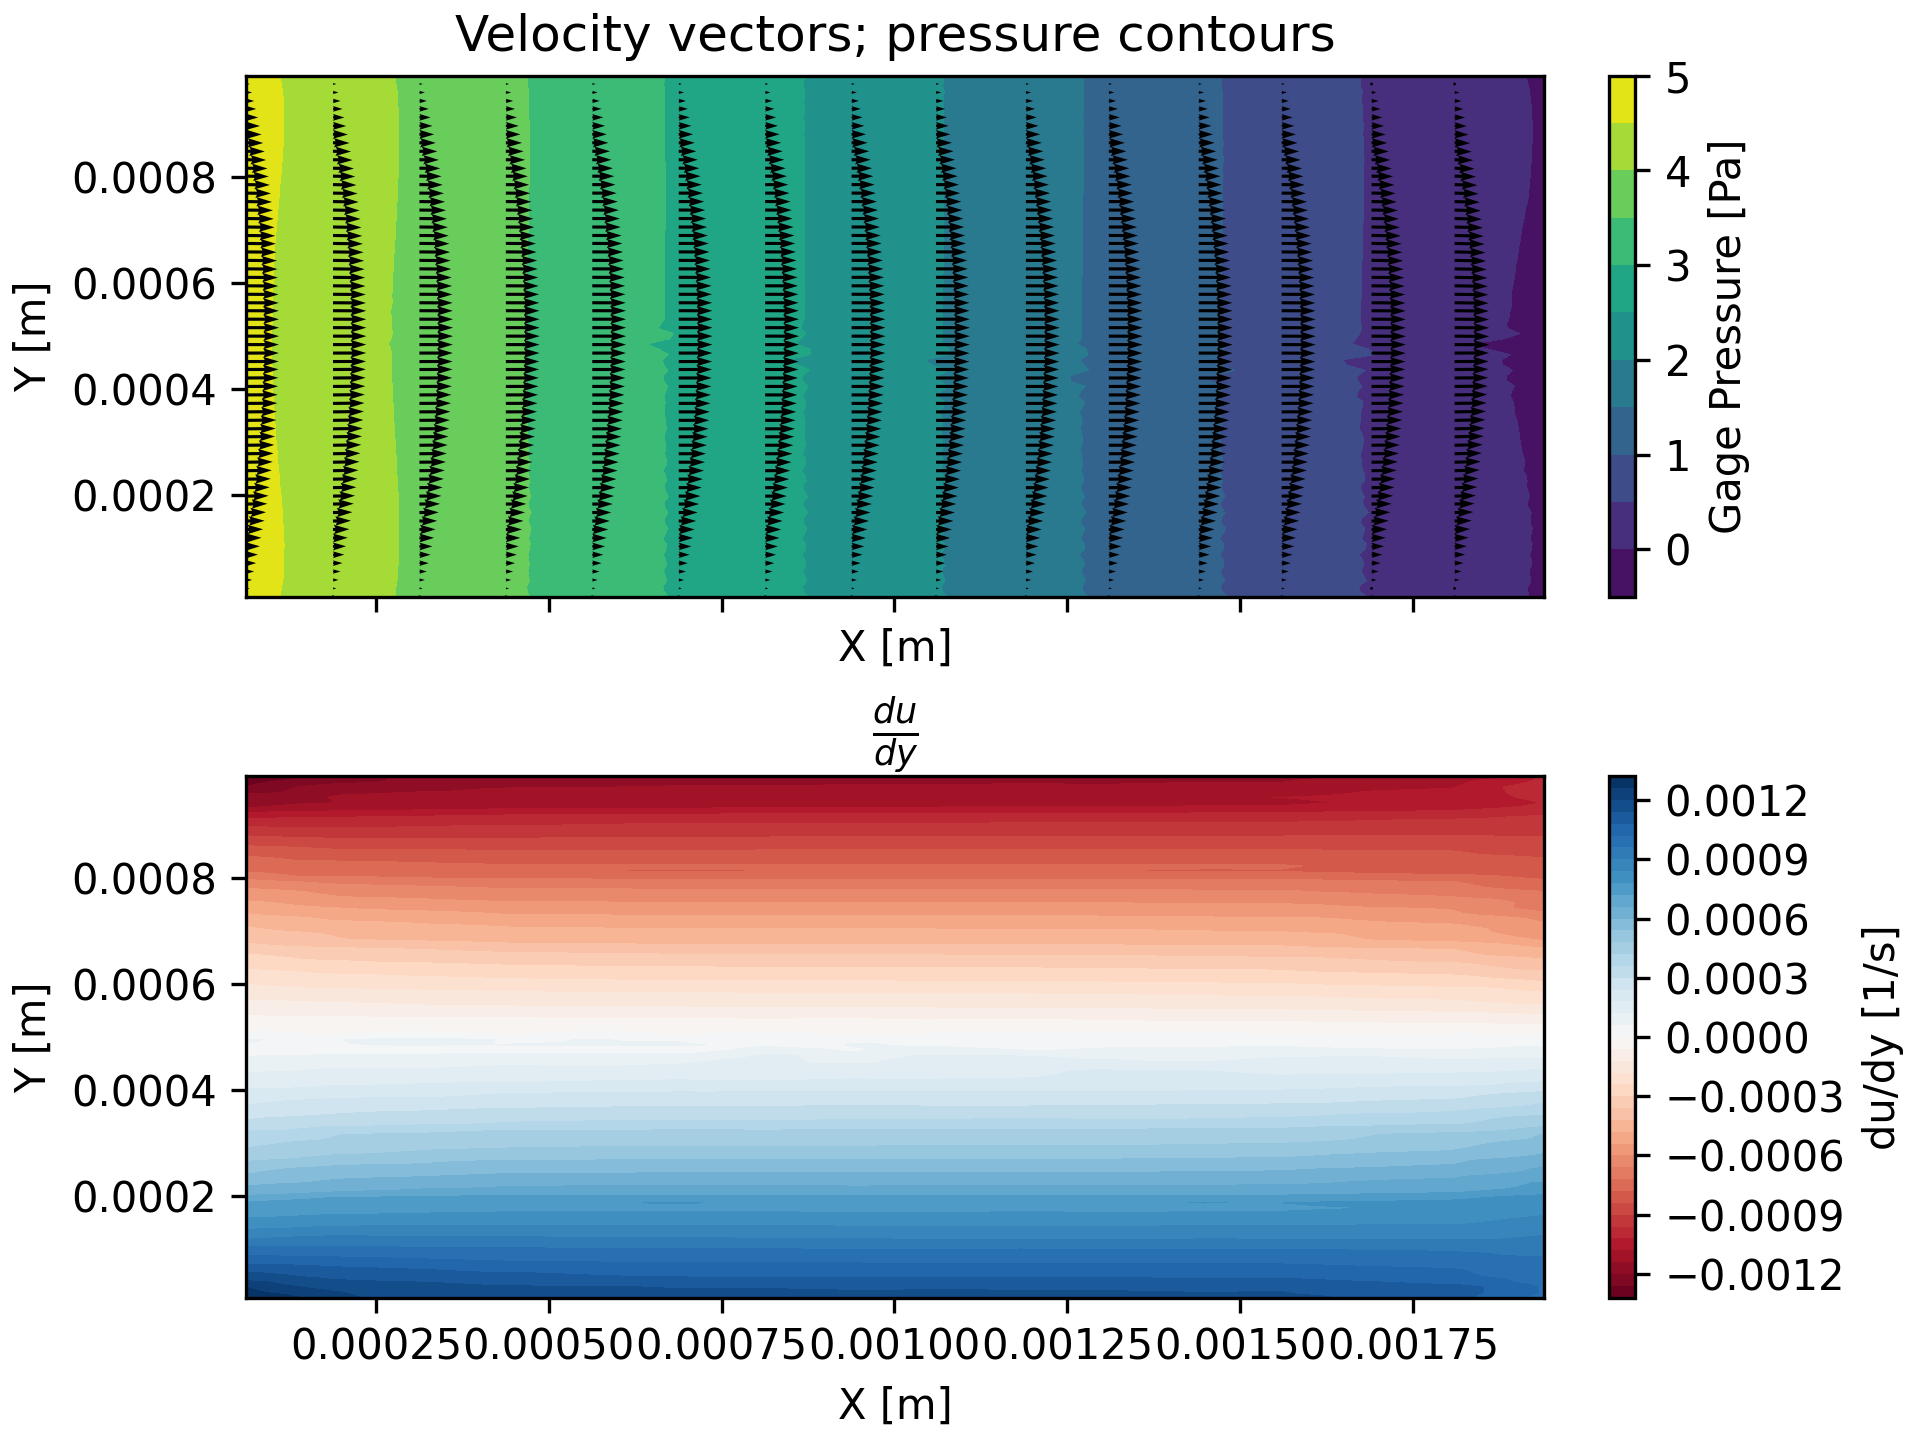
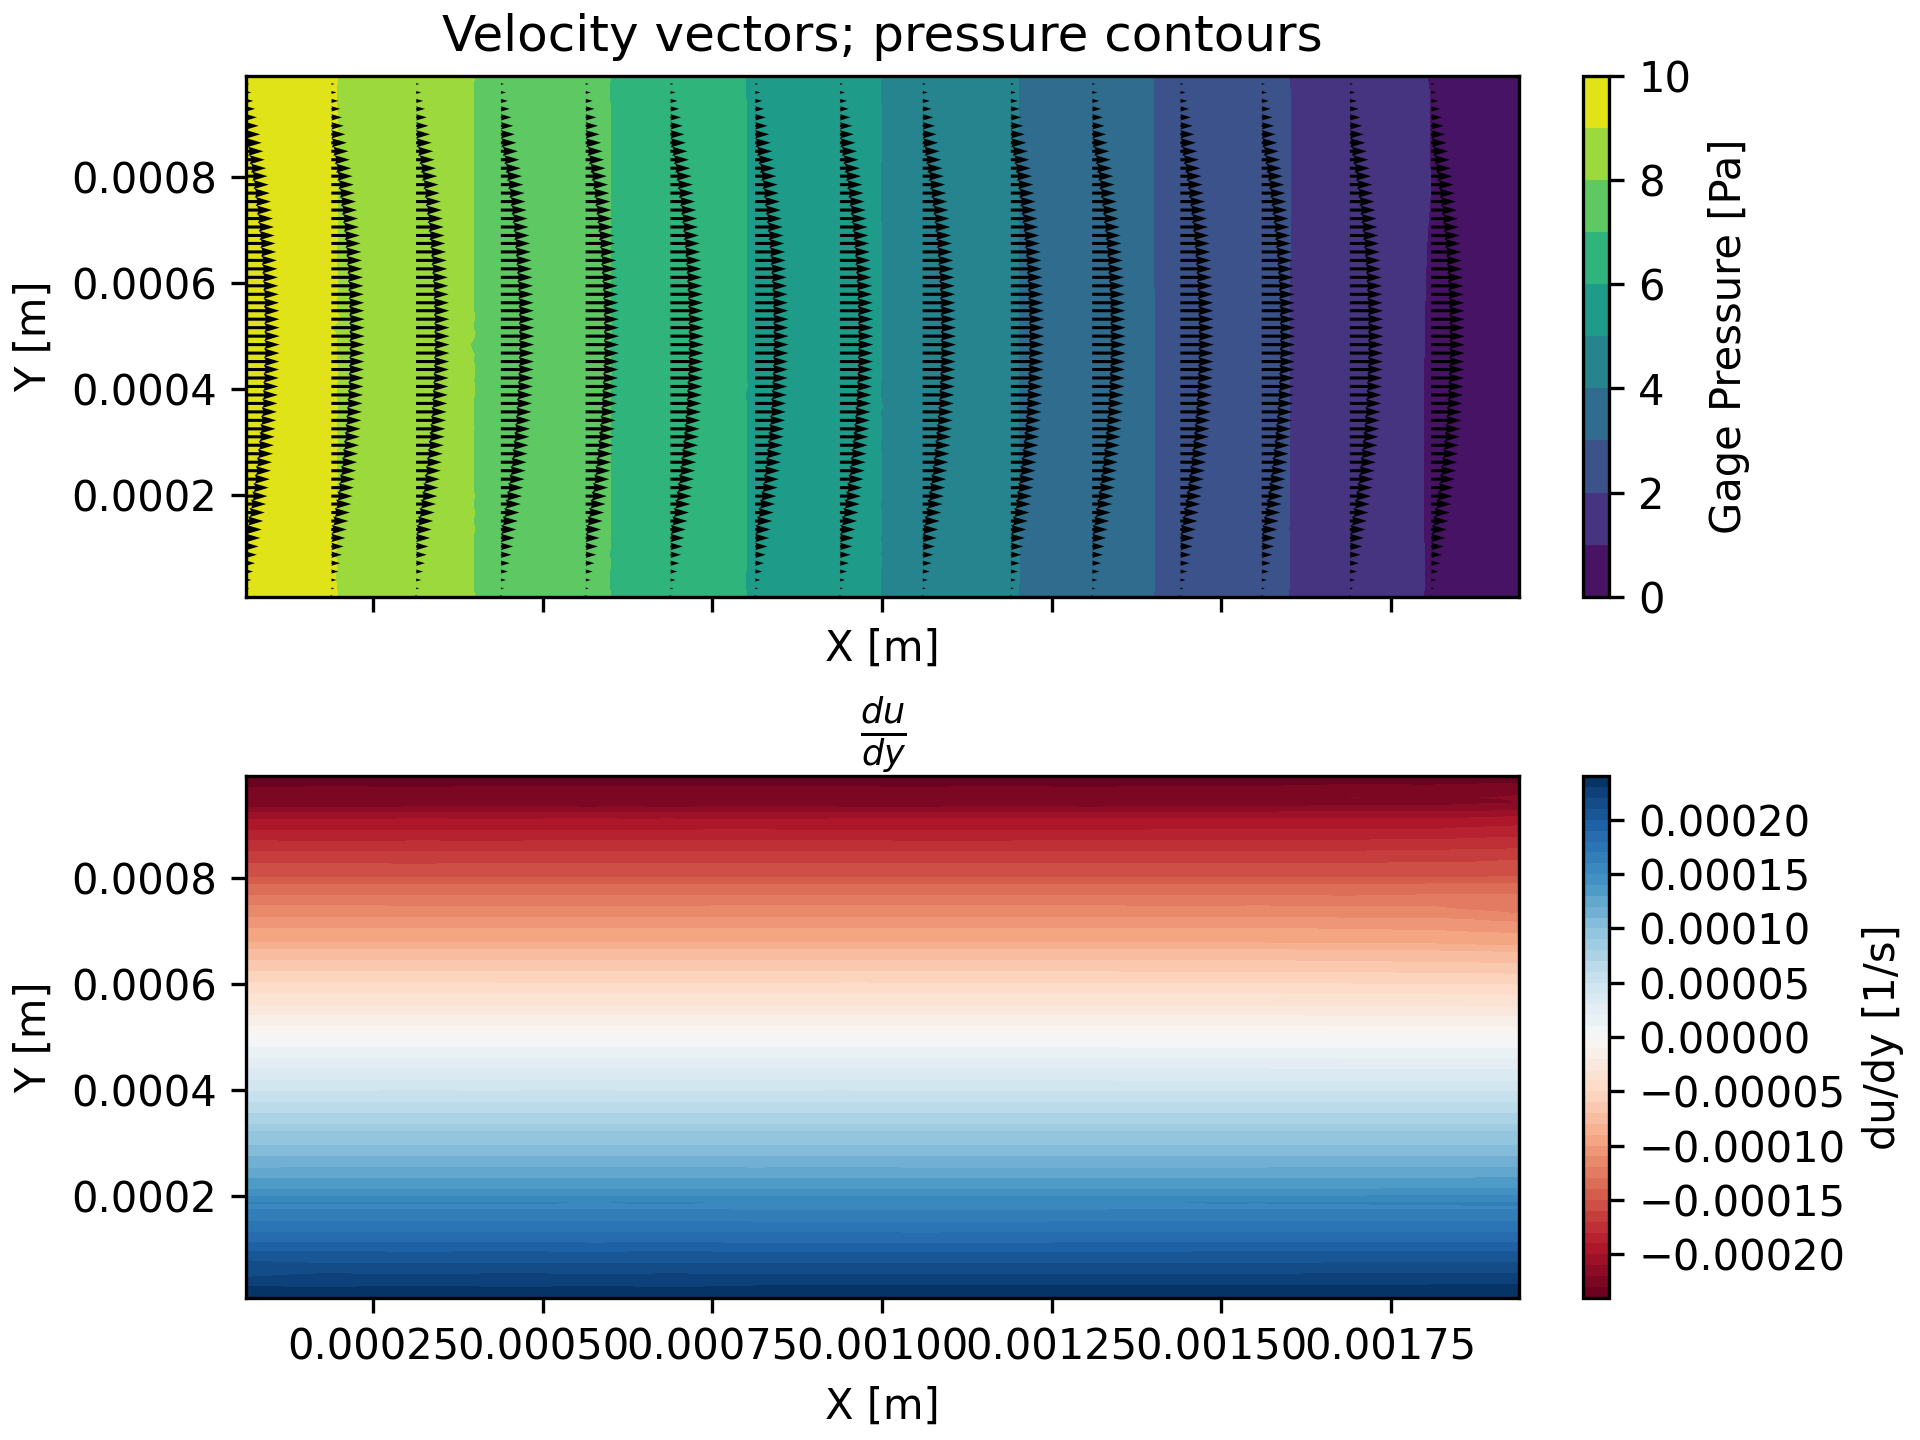
annotate Couette flow example, simplify plotting script, etc

Changed region(s): [[0.125, 0.0, 0.875, 0.4375], [0.125, 0.4375, 0.9688, 1.0]]

diff --git a/examples/plot_output.py b/examples/plot_output.py
@@ -5,28 +5,14 @@ import matplotlib.tri as tri
 from matplotlib.figure import Figure
 import numpy as np
 import re
-from typing import Literal
 import win32api
 
-def tile_all_matplotlib_figures(
-    resize_figs: bool = False, show: bool = True, show_mode: Literal["basic", "enhanced"] = "enhanced"
-) -> None:
+
+def tile_all_matplotlib_figures() -> None:
     """Moves all active matplotlib figures into a rectangular grid.
     If only one figure exists, it will be moved to the center of the screen.
     Must be called after figure creation and before calling plt.show(). Only
     works in Windows, but should not be hard to make it work on other OS's.
-
-    Parameters
-    ----------
-    1. resize_figs : bool, (default False)
-            - If True, figures will be both moved and resized so that all
-              figures fit display area.
-    2. show : bool (default True)
-            - If True, figures will be shown.
-    3. show_mode : Literal["basic", "enhanced"] (default "basic")
-            - If "enhanced", plots will be shown in a manner where pressing
-              `enter` in the console closes them all. If "basic", `plt.show()`
-              will simply be called.
     """
 
     def move_figure(
@@ -106,25 +92,6 @@ def tile_all_matplotlib_figures(
         fig_y = int((monitor_coords[0][3] - fig_height) / 2)
         move_figure(fig, xy=(fig_x, fig_y))
         # return
-    elif resize_figs:
-        print("WARNING: `resize_figs` is not working as intended.")
-        col_count = math.floor(math.sqrt(monitor_coords[0][2] / monitor_coords[0][3]) * math.ceil(math.sqrt(fig_count)))
-
-        row_count = math.ceil(fig_count / col_count)
-        print(f"{col_count=},{row_count=}")
-
-        fig_width = int((monitor_coords[0][2] - (col_count + 1) * HORIZONTAL_PADDING) / col_count)
-        fig_height = int(
-            (monitor_coords[0][3] - (row_count + 1) * VERTICAL_PADDING) / row_count
-        )  # TODO: Make pairs (height/width) lists
-
-        for n in fignums:
-            i = (n - 1) % col_count
-            j = int((n - 1) / col_count)
-            x_start = HORIZONTAL_PADDING * (i + 1) + i * fig_width
-            y_start = VERTICAL_PADDING * (j + 1) + j * fig_height
-            print(f"{x_start}-{x_start+fig_width}, {y_start}-{y_start+fig_height}")
-            move_figure(plt.figure(n), (x_start, y_start), (fig_width, fig_height))
     else:
         window_x = HORIZONTAL_PADDING
         window_y = VERTICAL_PADDING
@@ -146,18 +113,15 @@ def tile_all_matplotlib_figures(
                         window_y = monitor_coords[monitor_index][1] + VERTICAL_PADDING
             move_figure(fig, xy=(window_x, window_y))
             window_x += fig_width + HORIZONTAL_PADDING
-    if show:
-        if len(plt.get_fignums()) > 0:
-            if show_mode == "enhanced":
-                plt.show(block=False)
-                input("Press [enter] to close all plots.")
-                plt.close("all")
-            else:
-                plt.show()
+    if len(plt.get_fignums()) > 0:
+        plt.show()
 
 
 def plot_couette():
     MU = 0.01
+    DP = -10
+    DX = 0.01
+    CHANNEL_HEIGHT = 0.001
 
     FLOAT = "[\\d|\\.|e|\\-]+"
     VECTOR = f"\\(({FLOAT}),\\s+({FLOAT}),\\s+({FLOAT})\\)"
@@ -203,9 +167,8 @@ def plot_couette():
     # *** Figure 2 ***
     fig, ax = plt.subplots()
     fig.suptitle("Velocity profile vs analytical")
-    dp_dx = (np.min(p) - np.max(p)) / (np.max(x) - np.min(x))
-    a = np.max(y) - np.min(y)
-    u_analytical = 1 / (2 * MU) * dp_dx * (yi**2 - a * yi)
+    a = CHANNEL_HEIGHT
+    u_analytical = 1 / (2 * MU) * DP / DX * (yi**2 - a * yi)
     ax.plot(yi, u_analytical)
     ax.scatter(y, u)
 

diff --git a/src/main.rs b/src/main.rs
@@ -332,13 +332,17 @@ fn test_3d_3x3(iteration_count: Uint) {
 }
 
 fn couette(iteration_count: Uint, reporting_interval: Uint) {
+    // ************ Constants ********
     let channel_height = 0.001;
-    let mu = 0.01;
-    let dp = -5.;
+    let mu = 0.1;
+    let rho = 1000.;
+    let dp = -10.;
     let dx = 0.01;
 
+    // *********** Read mesh ************
     let mut mesh = orc::io::read_mesh("./examples/couette_flow.msh");
 
+    // ************ Set boundary conditions **********
     mesh.get_face_zone("WALL").zone_type = FaceConditionTypes::Wall;
 
     mesh.get_face_zone("INLET").zone_type = FaceConditionTypes::PressureInlet;
@@ -350,22 +354,25 @@ fn couette(iteration_count: Uint, reporting_interval: Uint) {
     mesh.get_face_zone("PERIODIC_-Z").zone_type = FaceConditionTypes::Symmetry;
     mesh.get_face_zone("PERIODIC_+Z").zone_type = FaceConditionTypes::Symmetry;
 
+    // ************* Set numerical methods ***************
     let settings = NumericalSettings {
         momentum_relaxation: 0.01,
         pressure_relaxation: 0.01, // 0.25 converges, 0.5 diverges
         matrix_solver: SolutionMethod::Multigrid,
-        matrix_solver_iterations: 50,
+        matrix_solver_iterations: 20,
         matrix_solver_relaxation: 0.5,
-        matrix_solver_convergence_threshold: 1e-6,
+        matrix_solver_convergence_threshold: 1e-3,
+        momentum: MomentumDiscretization::CD1,
         pressure_interpolation: PressureInterpolation::SecondOrder,
         velocity_interpolation: VelocityInterpolation::LinearWeighted,
         ..NumericalSettings::default()
     };
 
+    // ************ Solve **************
     let (u, v, w, p) = solve_steady(
         &mut mesh,
         &settings,
-        1000.,
+        rho,
         mu,
         iteration_count,
         if reporting_interval == 0 {
@@ -389,11 +396,11 @@ fn couette(iteration_count: Uint, reporting_interval: Uint) {
 
     let u_avg = u.iter().sum::<Float>() / (u.len() as Float);
     let u_avg_analytical = -(Float::powi(channel_height, 2) / (12. * mu)) * (dp / dx);
-    if Float::max(u_avg, u_avg_analytical) / Float::min(u_avg, u_avg_analytical) > 1.05 {
-        print!("Couette flow validation failed.");
-    } else {
-        print!("Couette flow validation passed.");
-    }
+    // if Float::max(u_avg, u_avg_analytical) / Float::min(u_avg, u_avg_analytical) > 1.05 {
+    //     print!("Couette flow validation failed.");
+    // } else {
+    //     print!("Couette flow validation passed.");
+    // }
     println!(" U_measured = {u_avg:.2e}; U_analytical = {u_avg_analytical:.2e}");
 }
 
